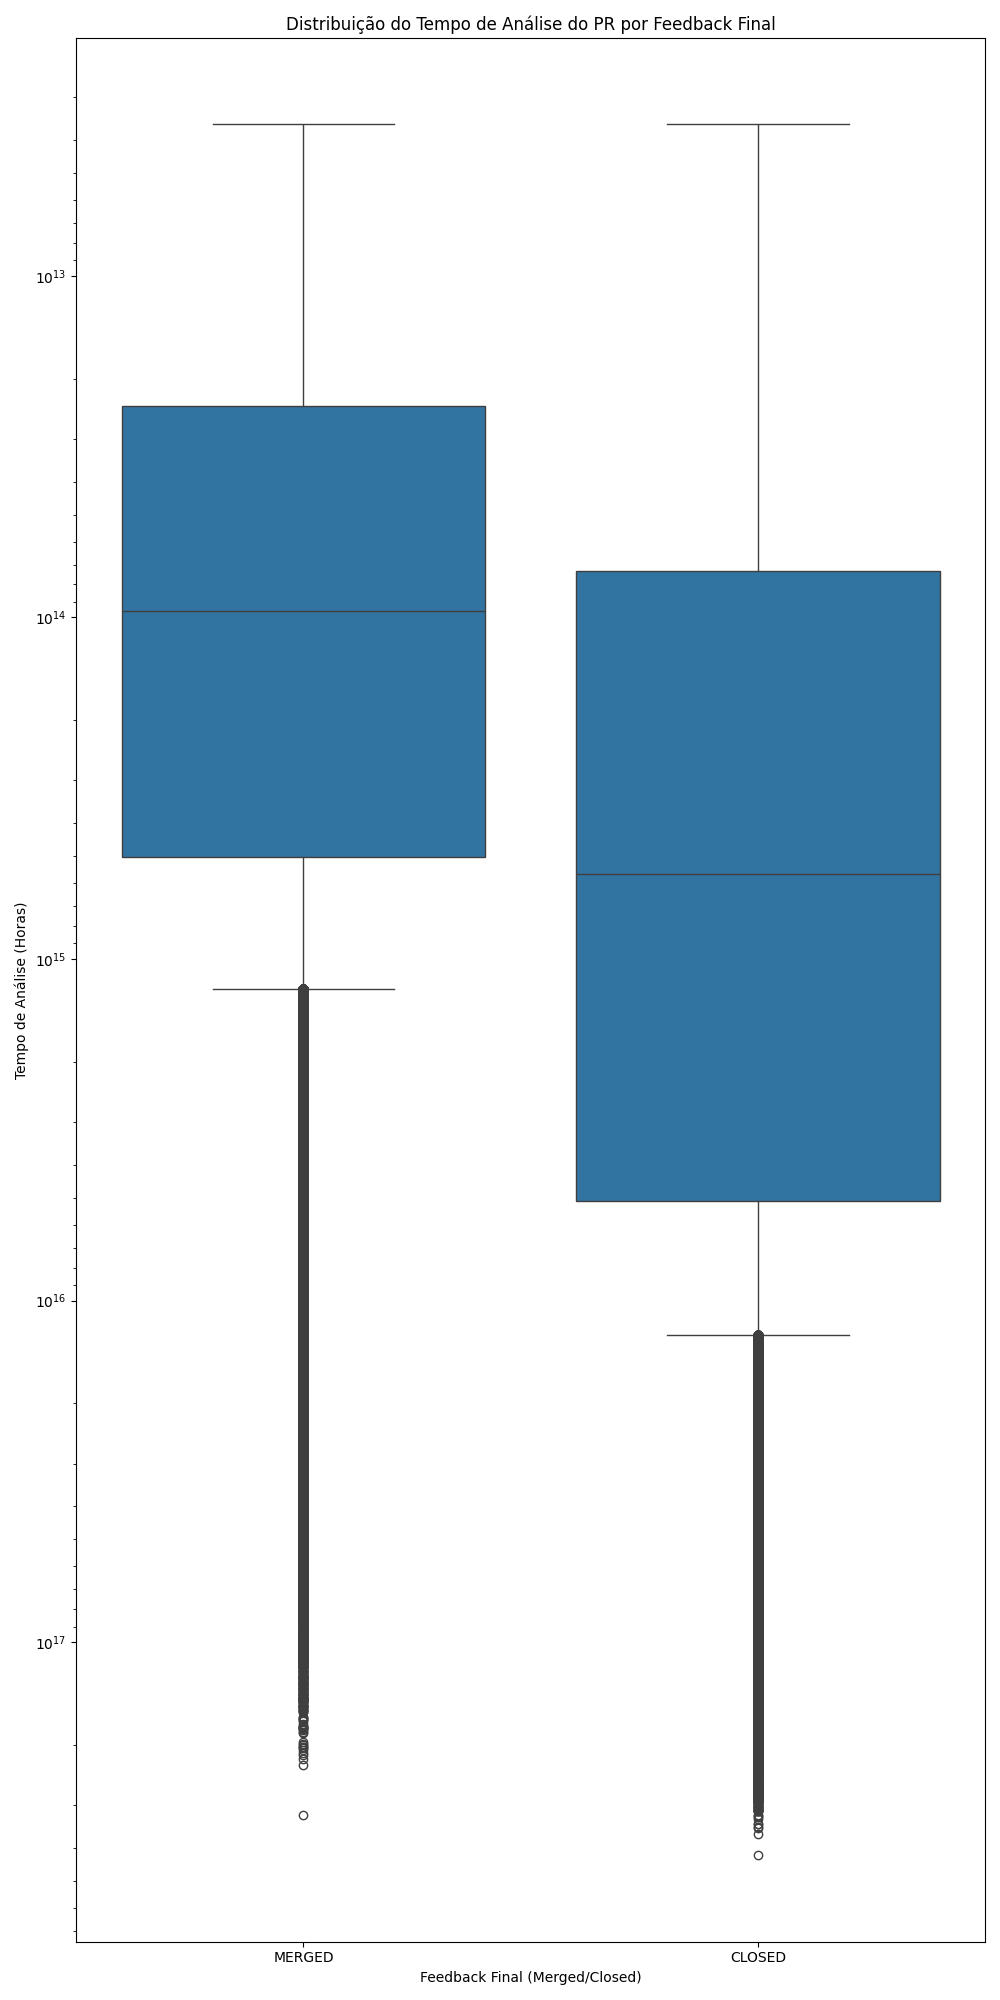
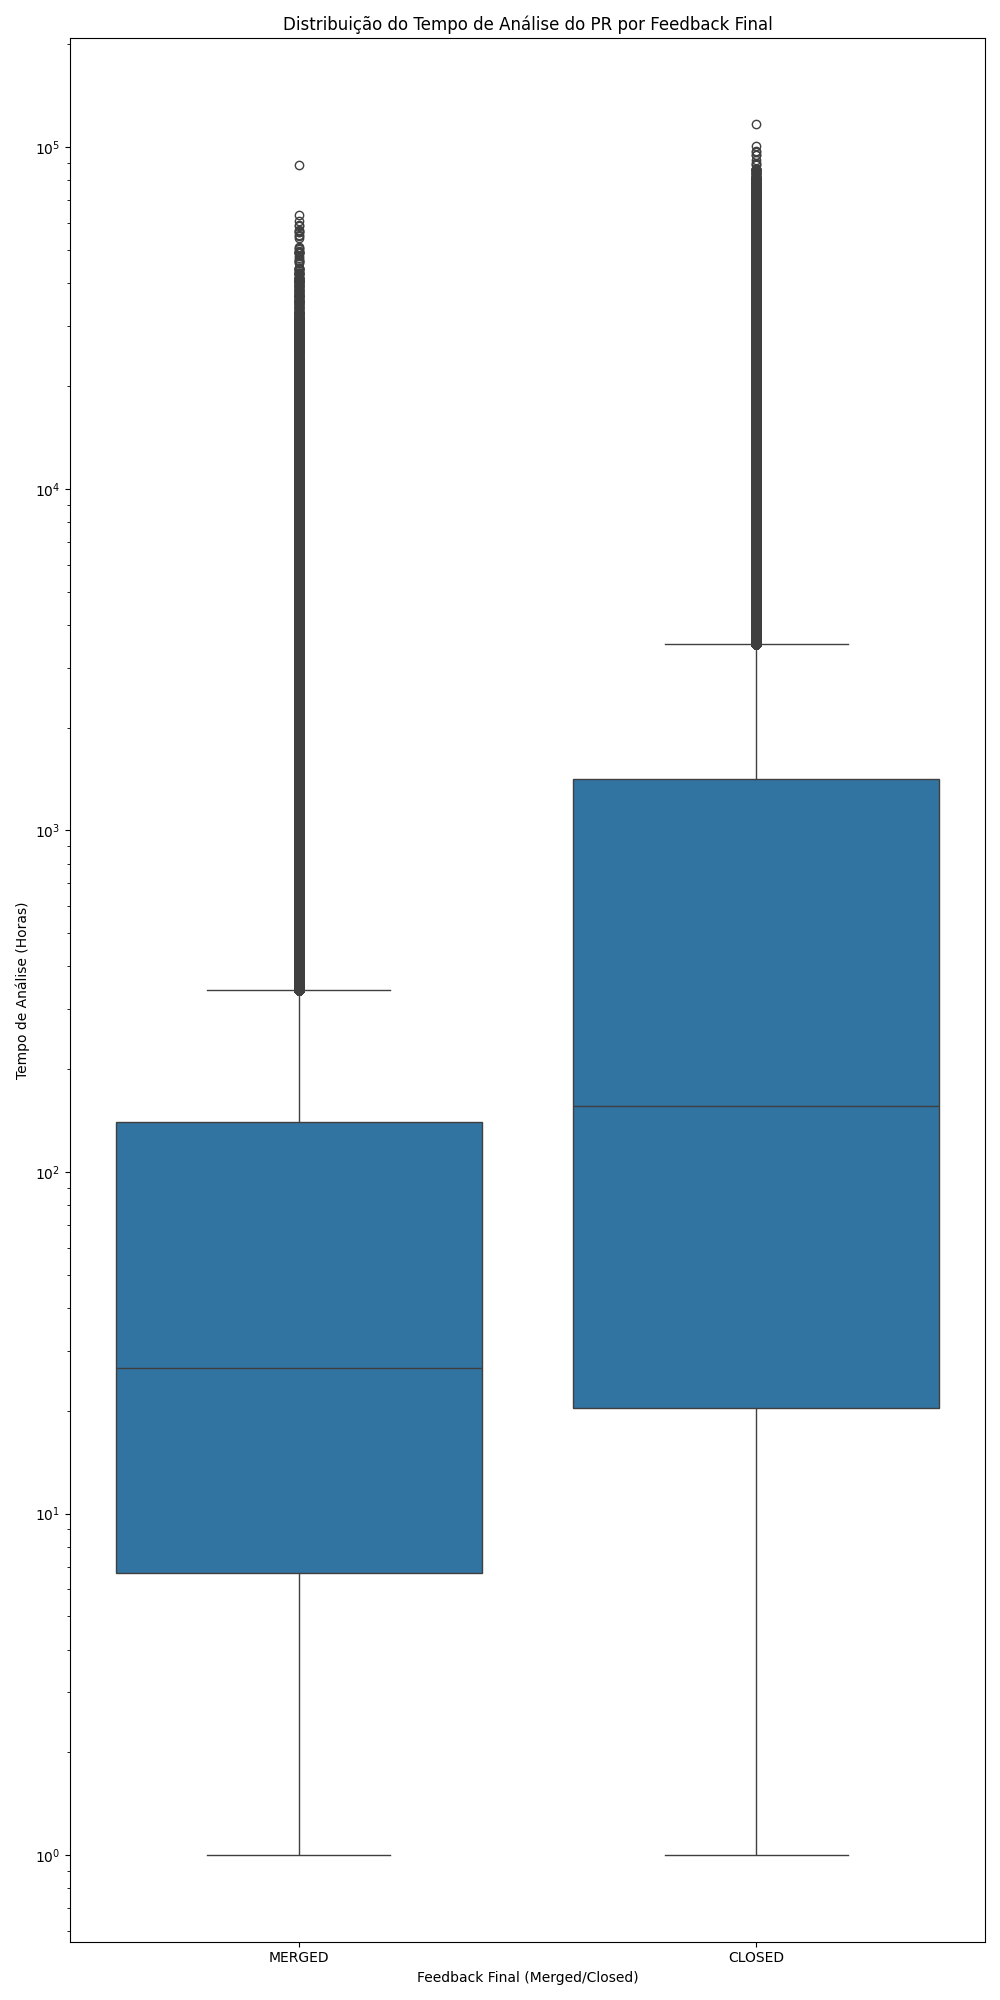
fixed rq2 + 5 and 6

diff --git a/plot/feedbacks.py b/plot/feedbacks.py
@@ -5,10 +5,8 @@ import seaborn as sns
 
 # repo_name,repo_owner,pr_created_at,pr_closed_or_merged_at,pr_state,pr_reviews_count,pr_review_duration_hours,pr_additions,pr_deletions,pr_changed_files,pr_comments_count,pr_participants_count,pr_description_length
 
+# RQ1
 def pr_size_feedback(dataframe):
-    dataframe['pr_size'] = dataframe['pr_additions'] + dataframe['pr_deletions'] + dataframe['pr_changed_files']
-    dataframe['feedback'] = dataframe['pr_state'].apply(lambda x: 'MERGED' if x == 'MERGED' else 'CLOSED')
-
     plt.figure(figsize=(10, 20))
 
     ax = sns.boxplot(x='feedback', y='pr_size', data=dataframe)
@@ -24,13 +22,8 @@ def pr_size_feedback(dataframe):
     plt.savefig('graphs/rq1.png')
     plt.clf()
 
+# RQ2
 def pr_analysis_duration_feedback(dataframe):
-    dataframe['feedback'] = dataframe['pr_state'].apply(lambda x: 'MERGED' if x == 'MERGED' else 'CLOSED')
-
-    dataframe['pr_closed_or_merged_at'] = pd.to_datetime(dataframe['pr_closed_or_merged_at'])
-    dataframe['pr_created_at'] = pd.to_datetime(dataframe['pr_created_at'])
-    dataframe['pr_analysis_duration'] = dataframe['pr_closed_or_merged_at'] - dataframe['pr_created_at']
-
     plt.figure(figsize=(10, 20))
 
     ax = sns.boxplot(x='feedback', y='pr_analysis_duration', data=dataframe)
@@ -46,9 +39,8 @@ def pr_analysis_duration_feedback(dataframe):
     plt.savefig('graphs/rq2.png')
     plt.clf()
 
+# RQ3
 def pr_description_feedback(dataframe):
-    dataframe['feedback'] = dataframe['pr_state'].apply(lambda x: 'MERGED' if x == 'MERGED' else 'CLOSED')
-
     plt.figure(figsize=(10, 20))
 
     ax = sns.boxplot(x='feedback', y='pr_description_length', data=dataframe)
@@ -64,10 +56,9 @@ def pr_description_feedback(dataframe):
     plt.savefig('graphs/rq3.png')
     plt.clf()
 
+# RQ4
 def pr_interactions_feedback(dataframe):
-    dataframe['feedback'] = dataframe['pr_state'].apply(lambda x: 'MERGED' if x == 'MERGED' else 'CLOSED')
     # Todas as interações
-    dataframe['pr_interactions'] = dataframe['pr_participants_count'] + dataframe['pr_comments_count']
     plt.figure(figsize=(10, 20))
 
     ax = sns.boxplot(x='feedback', y='pr_interactions', data=dataframe)

diff --git a/plot/review_count.py b/plot/review_count.py
@@ -1,0 +1,40 @@
+import numpy as np
+import pandas as pd
+import matplotlib.pyplot as plt
+import seaborn as sns
+
+# repo_name,repo_owner,pr_created_at,pr_closed_or_merged_at,pr_state,pr_reviews_count,pr_review_duration_hours,pr_additions,pr_deletions,pr_changed_files,pr_comments_count,pr_participants_count,pr_description_length
+
+# RQ5
+def pr_size_review_count(dataframe):
+    pr_size = dataframe['pr_size']
+    review_count = dataframe['pr_reviews_count']
+    plt.figure(figsize=(15, 6))
+
+    plt.scatter(pr_size, review_count, label='Tamanho dos PRs', color='blue', marker='o', s=15)
+    plt.title('Tamanho dos PRs X Quantidade de Revisões')
+    plt.xlabel('Tamanho dos PRs')
+    plt.ylabel('Quantidade de Revisões')
+
+    plt.xscale('log')
+
+    plt.tight_layout()
+    plt.savefig('graphs/rq5.png')
+    plt.clf()
+
+# RQ6
+def pr_analysis_duration_review_count(dataframe):
+    pr_analysis_duration = dataframe['pr_analysis_duration']
+    review_count = dataframe['pr_reviews_count']
+    plt.figure(figsize=(15, 6))
+
+    plt.scatter(pr_analysis_duration, review_count, label='Tempo de Análise', color='blue', marker='o', s=15)
+    plt.title('Tempo de Análise X Quantidade de Revisões')
+    plt.xlabel('Tempo de Análise')
+    plt.ylabel('Quantidade de Revisões')
+
+    plt.xscale('log')
+    
+    plt.tight_layout()
+    plt.savefig('graphs/rq6.png')
+    plt.clf()

diff --git a/plot/main_plot.py b/plot/main_plot.py
@@ -3,12 +3,26 @@ import pandas as pd
 import matplotlib.pyplot as plt
 import seaborn as sns
 from feedbacks import *
+from review_count import *
 
 
 if __name__ == "__main__":
     dataframe = pd.read_csv("repositorios_com_metricas.csv")
 
+    dataframe['pr_size'] = dataframe['pr_additions'] + dataframe['pr_deletions'] + dataframe['pr_changed_files']
+    dataframe['feedback'] = dataframe['pr_state'].apply(lambda x: 'MERGED' if x == 'MERGED' else 'CLOSED')
+
+    dataframe['pr_closed_or_merged_at'] = pd.to_datetime(dataframe['pr_closed_or_merged_at'])
+    dataframe['pr_created_at'] = pd.to_datetime(dataframe['pr_created_at'])
+    analysis_duration = dataframe['pr_closed_or_merged_at'] - dataframe['pr_created_at']
+    dataframe['pr_analysis_duration'] = analysis_duration.dt.total_seconds() / 3600
+
+    dataframe['pr_interactions'] = dataframe['pr_participants_count'] + dataframe['pr_comments_count']
+
     pr_size_feedback(dataframe)
     pr_analysis_duration_feedback(dataframe)
     pr_description_feedback(dataframe)
     pr_interactions_feedback(dataframe)
+
+    pr_size_review_count(dataframe)
+    pr_analysis_duration_review_count(dataframe)
